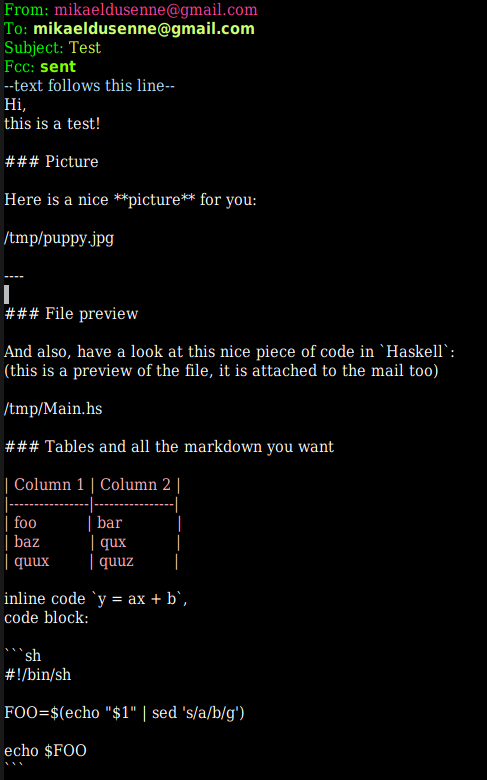
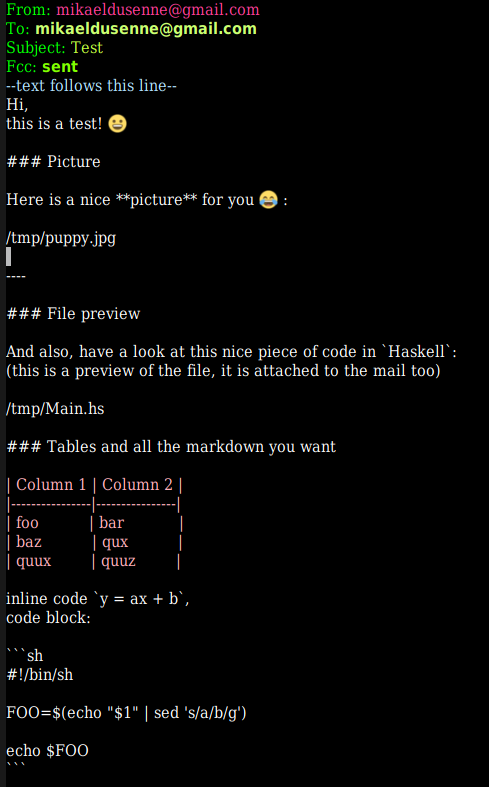
documentation

Changed region(s): [[0.0, 0.2462, 0.924, 0.8], [0.0, 0.0, 0.5236, 0.2154], [0.0, 0.8308, 0.5236, 0.9846]]

diff --git a/README.md b/README.md
@@ -1,5 +1,7 @@
 # Mail Redactor
 
+[asciinema](https://asciinema.org/a/181832)
+
 NB: This project is currently very dependent on my personal setup.
 
 This program takes as input the body of a mail written in (almost, cf below) markdown, and outputs a multipart-email containing the original text, the html pandoc-compiled text, and, when necessary, attachments to the mail.
@@ -12,6 +14,15 @@ If I enter the path to an existing file on a line, it adds it as an attachment t
 
 I did not perform extensive testing of the display of mails, but it should be mostly working. (the trickiest part is scrollable divs inside emails to display text files preview, this does not seem to be extremely well supported, but it works well with gmail!)
 
-![markdown](/data/screenshots/mail_markdown/?raw=true "Mail redaction from Emacs")
+**Here is an example of a mail as I write it in Emacs:**
+
+![markdown](/data/screenshots/mail_emacs.png/?raw=true "Mail redaction from Emacs")
+
+**And the resulting mail:**
 
 ![gmail](/data/screenshots/mail_output.gif/?raw=true "Result")
+
+Notice the smileys!
+
+The mail's plain text content is encoded following the [Quoted-Printable](https://en.wikipedia.org/wiki/Quoted-printable) specifications, the html part is in base64.
+
